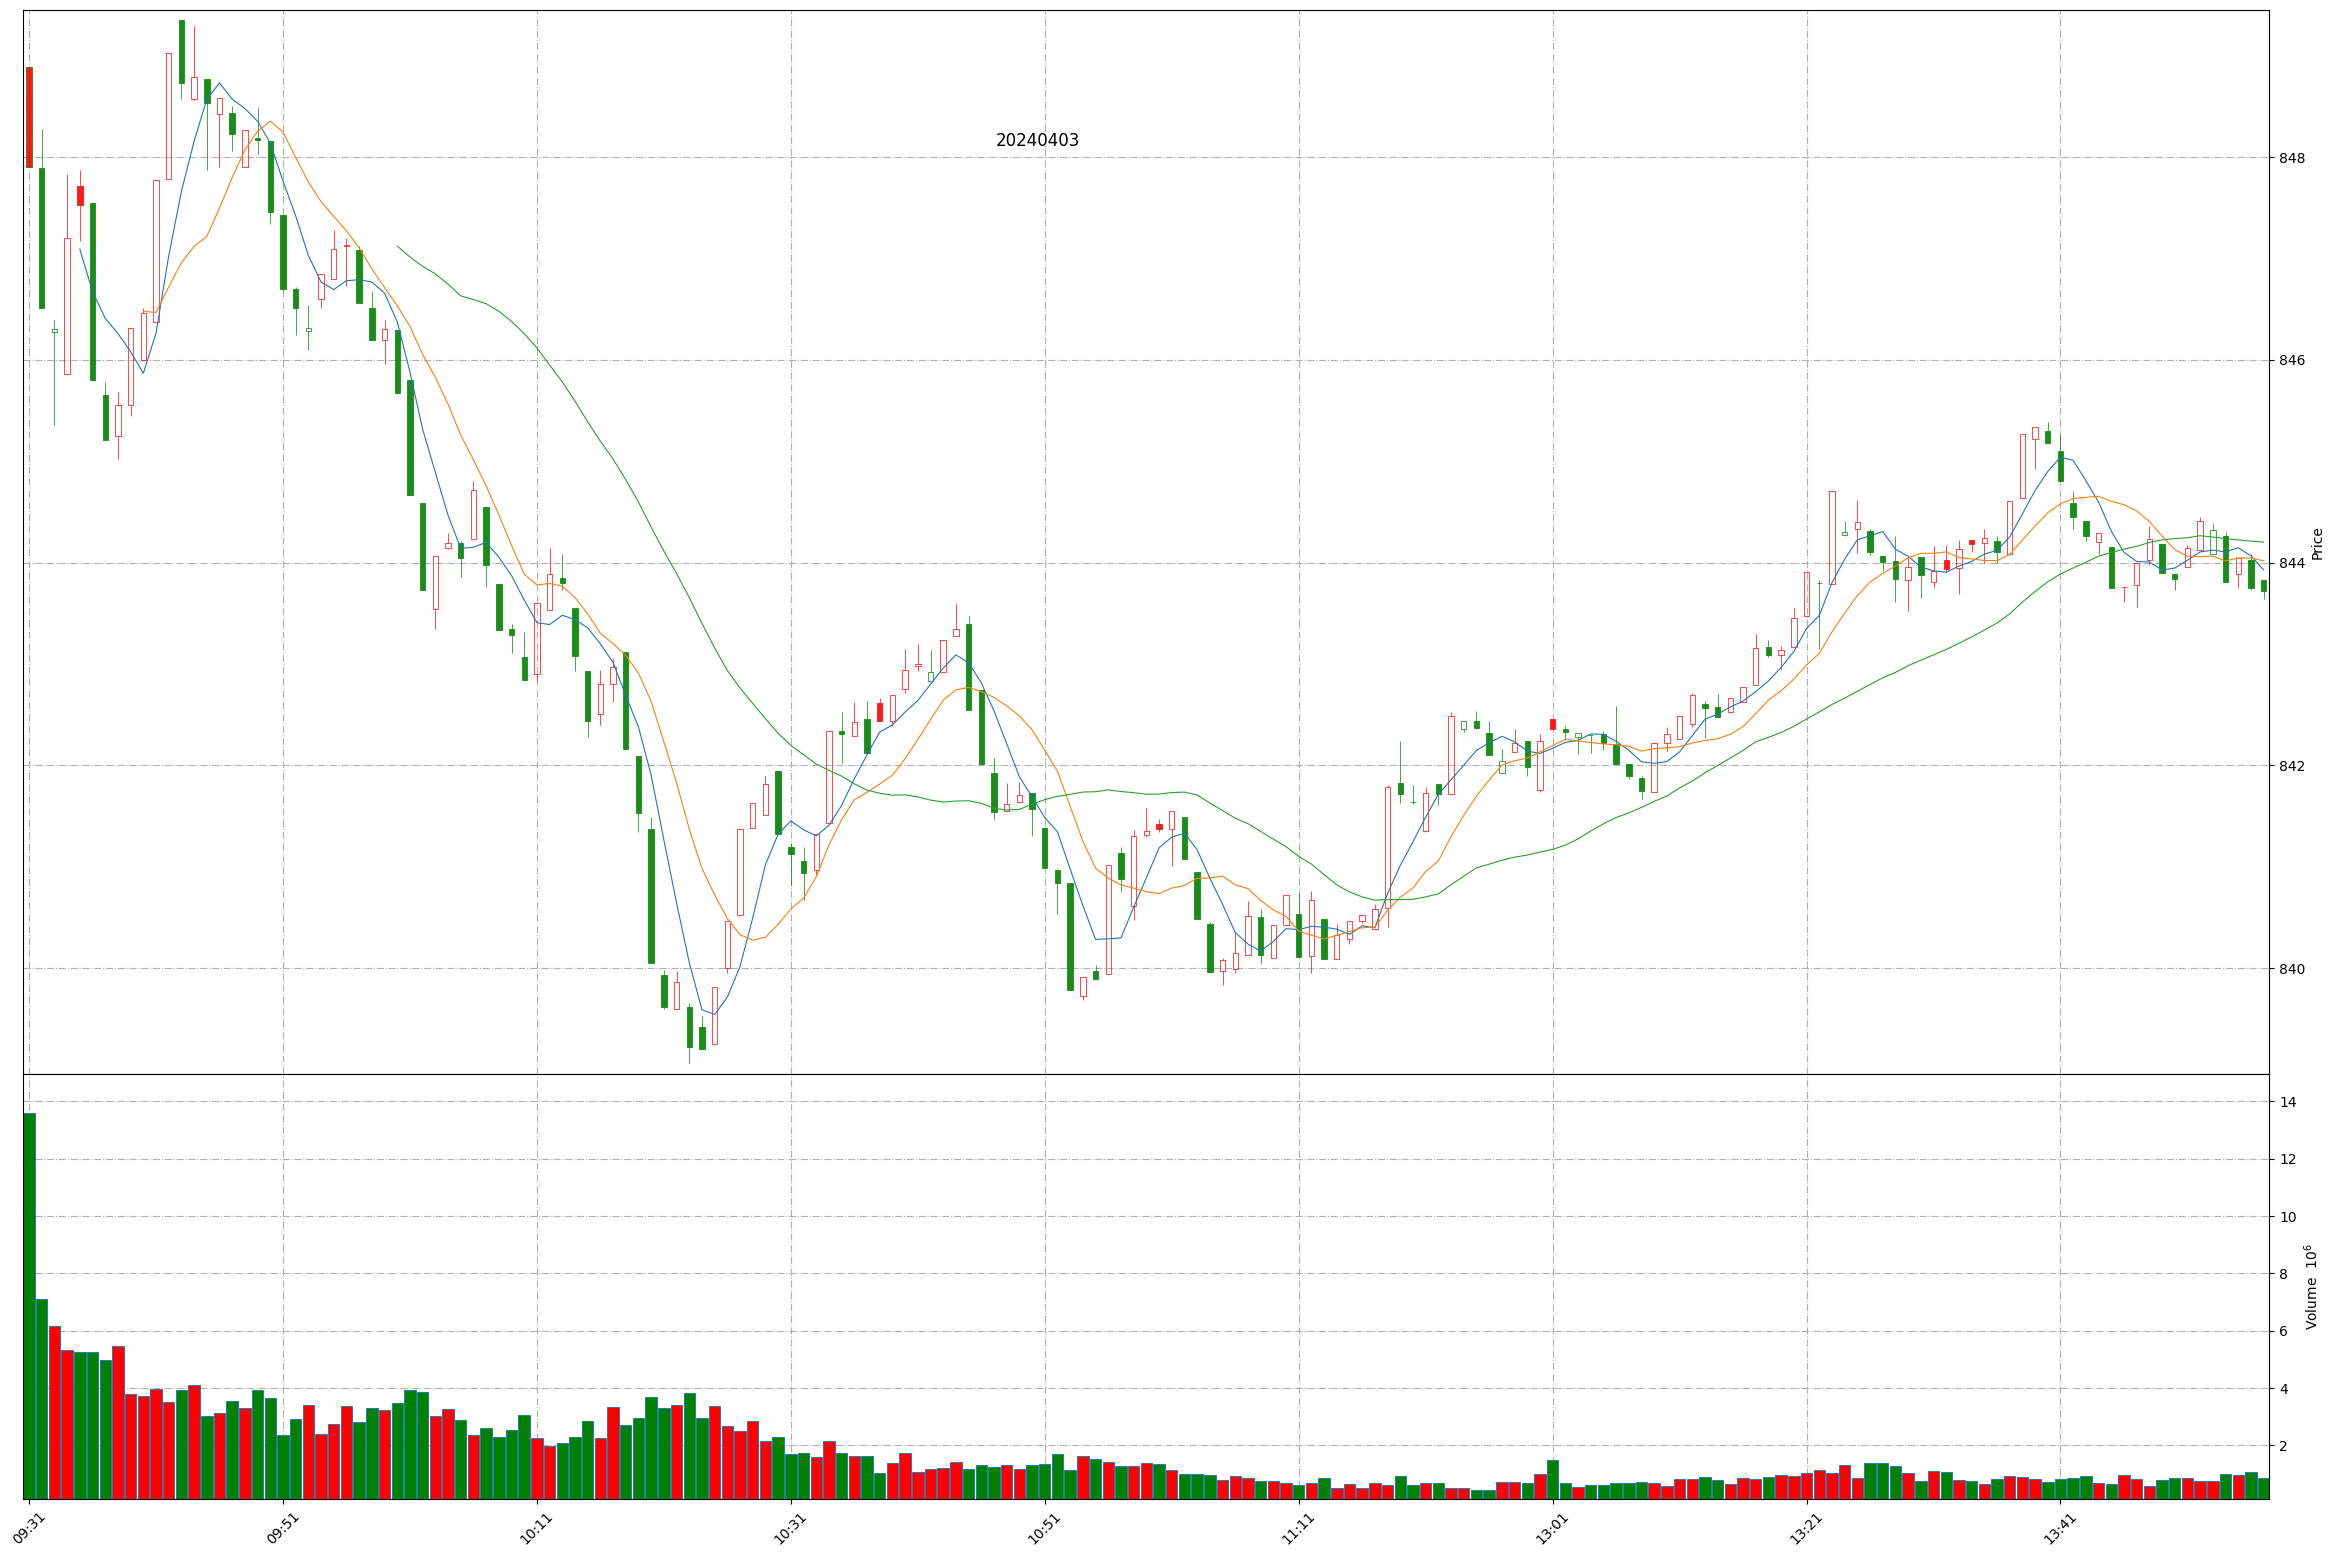
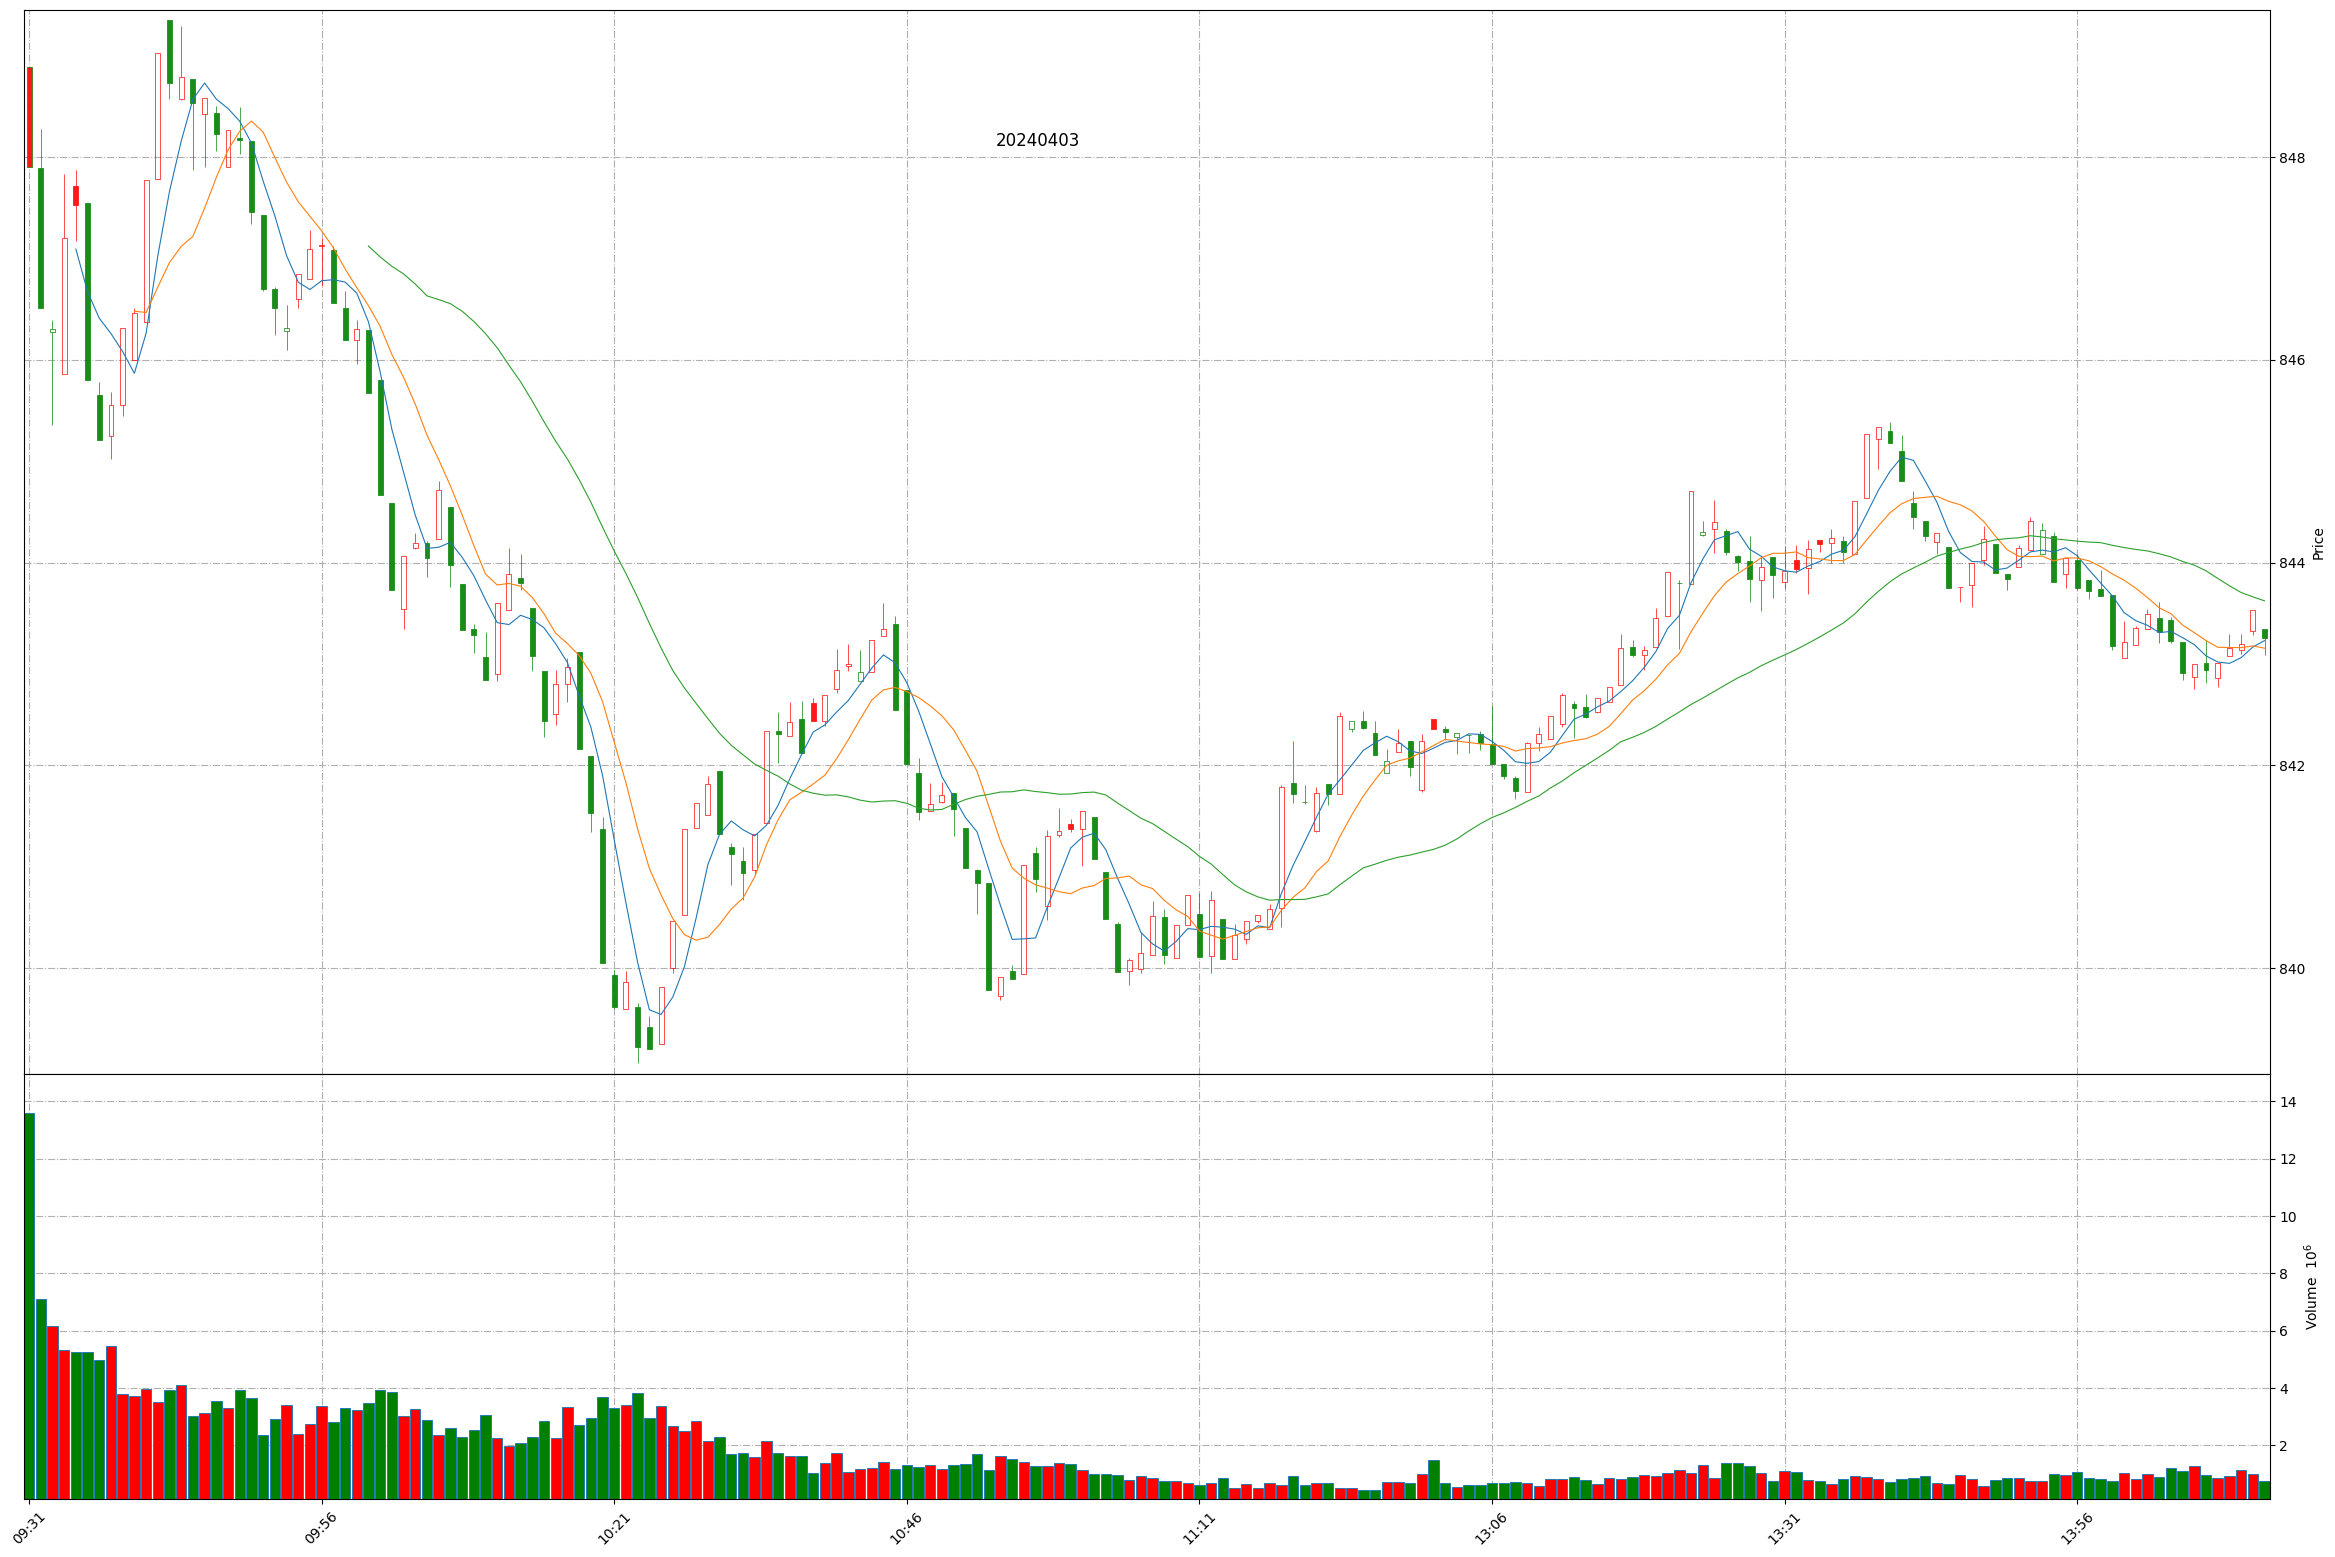
Github action update at 2024-04-03 14:11:58.

Changed region(s): [[0.0, 0.0, 0.7709, 0.6782], [0.0, 0.8324, 0.9867, 0.9865], [0.7092, 0.2775, 1.0, 0.4316]]

diff --git a/README.md b/README.md
@@ -1,11 +1,11 @@
 
 # Daily-A-share-market-quotes 每日 A 股指数（5min 更新）- 20240403
 
-### 上证指数 20240403 13:57
+### 上证指数 20240403 14:11
 ![](./fig/2024/4/20240403-sh000001.png)
 
-### 深证成指 20240403 13:57
+### 深证成指 20240403 14:11
 ![](./fig/2024/4/20240403-sz399001.png)
 
-### 北证50 20240403 13:57
+### 北证50 20240403 14:11
 ![](./fig/2024/4/20240403-bj899050.png)
